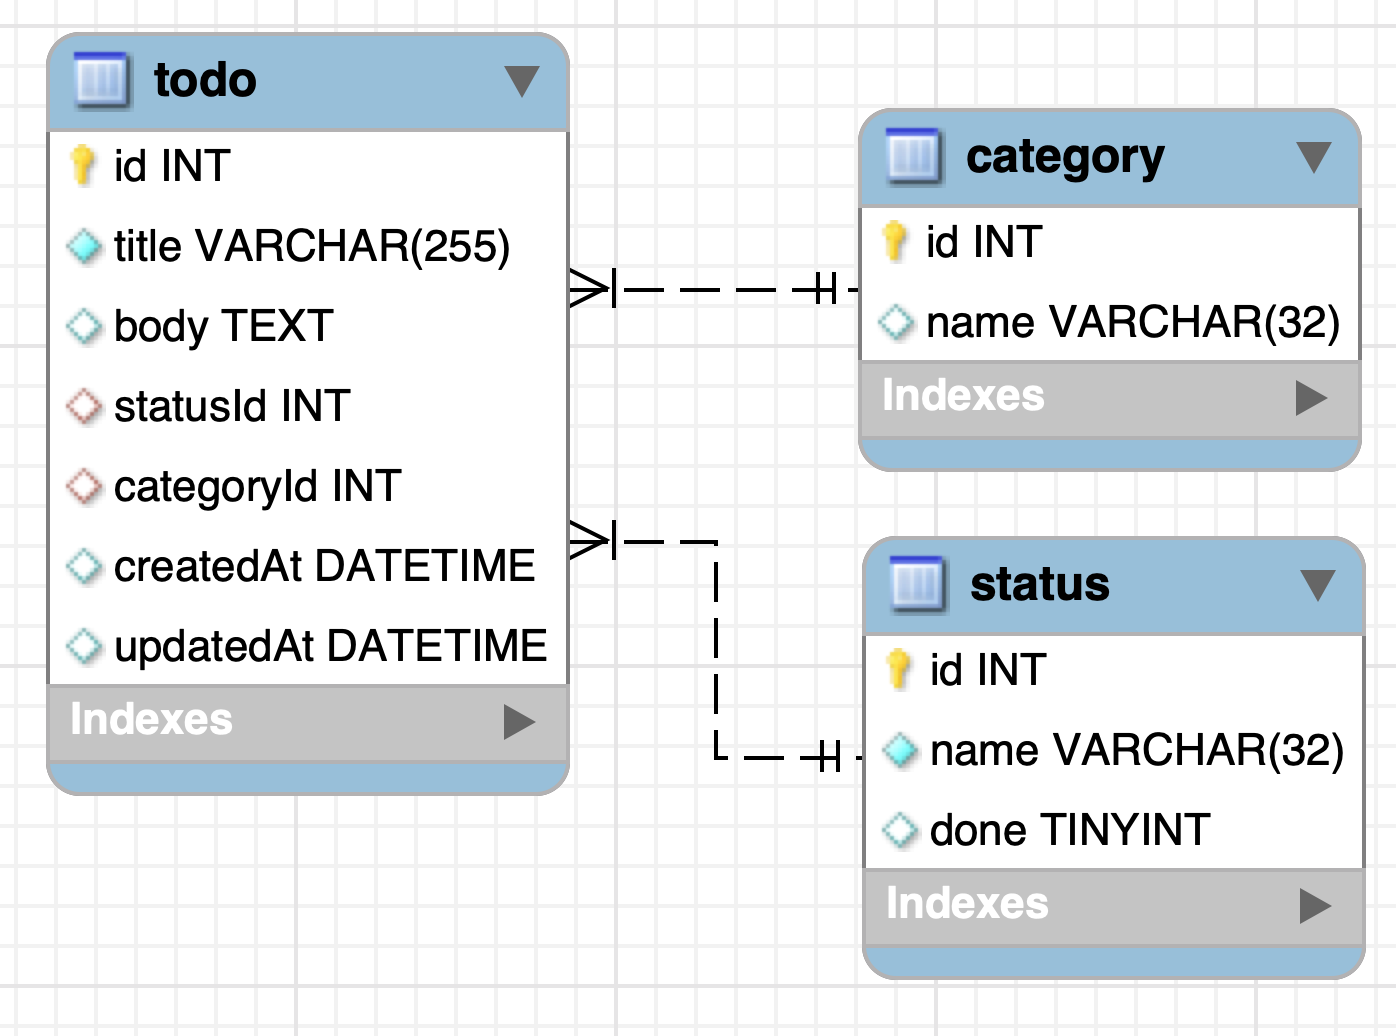
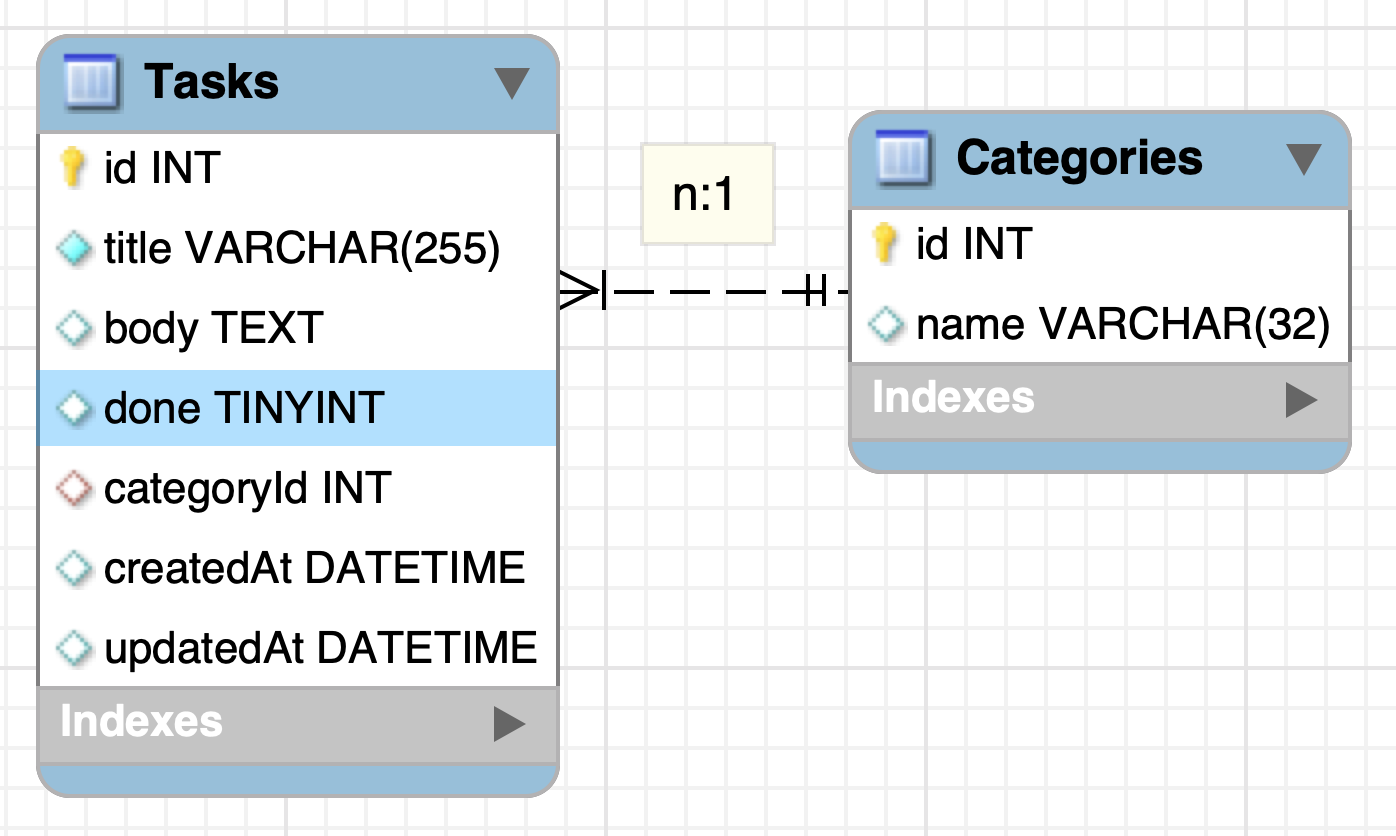
make model for task, category

diff --git a/migrations/20210810095805-create-task.js b/migrations/20210810095805-create-task.js
@@ -1,0 +1,46 @@
+'use strict';
+module.exports = {
+  up: async (queryInterface, Sequelize) => {
+    await queryInterface.createTable('Tasks', {
+      id: {
+        allowNull: false,
+        autoIncrement: true,
+        primaryKey: true,
+        type: Sequelize.INTEGER
+      },
+      title: {
+        type: Sequelize.STRING,
+        allowNull: false
+      },
+      body: {
+        type: Sequelize.TEXT,
+        allowNull: true
+      },
+      done: {
+        type: Sequelize.BOOLEAN,
+        allowNull: false,
+        default: false
+      },
+      categoryId:{
+        type: Sequelize.INTEGER,
+        references:{
+          model: {
+            tableName: 'Categories',
+            key: 'id'
+          }
+        }
+      },
+      createdAt: {
+        allowNull: false,
+        type: Sequelize.DATE
+      },
+      updatedAt: {
+        allowNull: false,
+        type: Sequelize.DATE
+      }
+    });
+  },
+  down: async (queryInterface, Sequelize) => {
+    await queryInterface.dropTable('Tasks');
+  }
+};

diff --git a/models/index.js b/models/index.js
@@ -1,0 +1,37 @@
+'use strict';
+
+const fs = require('fs');
+const path = require('path');
+const Sequelize = require('sequelize');
+const basename = path.basename(__filename);
+const env = process.env.NODE_ENV || 'development';
+const config = require(__dirname + '/../config/config.json')[env];
+const db = {};
+
+let sequelize;
+if (config.use_env_variable) {
+  sequelize = new Sequelize(process.env[config.use_env_variable], config);
+} else {
+  sequelize = new Sequelize(config.database, config.username, config.password, config);
+}
+
+fs
+  .readdirSync(__dirname)
+  .filter(file => {
+    return (file.indexOf('.') !== 0) && (file !== basename) && (file.slice(-3) === '.js');
+  })
+  .forEach(file => {
+    const model = require(path.join(__dirname, file))(sequelize, Sequelize.DataTypes);
+    db[model.name] = model;
+  });
+
+Object.keys(db).forEach(modelName => {
+  if (db[modelName].associate) {
+    db[modelName].associate(db);
+  }
+});
+
+db.sequelize = sequelize;
+db.Sequelize = Sequelize;
+
+module.exports = db;

diff --git a/models/task.js b/models/task.js
@@ -1,0 +1,23 @@
+'use strict';
+const { Model } = require('sequelize');
+
+module.exports = (sequelize, DataTypes) => {
+  class Task extends Model {
+    // テーブルの関連付け
+    static associate(models) {
+      Task.belongsTo(models.Category, {
+        foreignKey: 'categoryId',  // デフォルト値なので未指定でも可
+        targetKey: 'id'            // 〃
+      })
+    }
+  };
+  Task.init({
+    title: DataTypes.STRING,
+    body: DataTypes.TEXT,
+    done: DataTypes.BOOLEAN
+  }, {
+    sequelize,
+    modelName: 'Task',
+  });
+  return Task;
+};

diff --git a/migrations/20210810093257-create-category.js b/migrations/20210810093257-create-category.js
@@ -1,0 +1,19 @@
+'use strict';
+module.exports = {
+  up: async (queryInterface, Sequelize) => {
+    await queryInterface.createTable('Categories', {
+      id: {
+        allowNull: false,
+        autoIncrement: true,
+        primaryKey: true,
+        type: Sequelize.INTEGER
+      },
+      name: {
+        type: Sequelize.STRING
+      }
+    });
+  },
+  down: async (queryInterface, Sequelize) => {
+    await queryInterface.dropTable('Categories');
+  }
+};

diff --git a/models/category.js b/models/category.js
@@ -1,0 +1,17 @@
+'use strict';
+const { Model } = require('sequelize');
+module.exports = (sequelize, DataTypes) => {
+  class Category extends Model {
+    static associate(models) {
+      ;
+    }
+  };
+  Category.init({
+    name: DataTypes.STRING
+  }, {
+    sequelize,
+    modelName: 'Category',
+    timestamps: false
+  });
+  return Category;
+};
